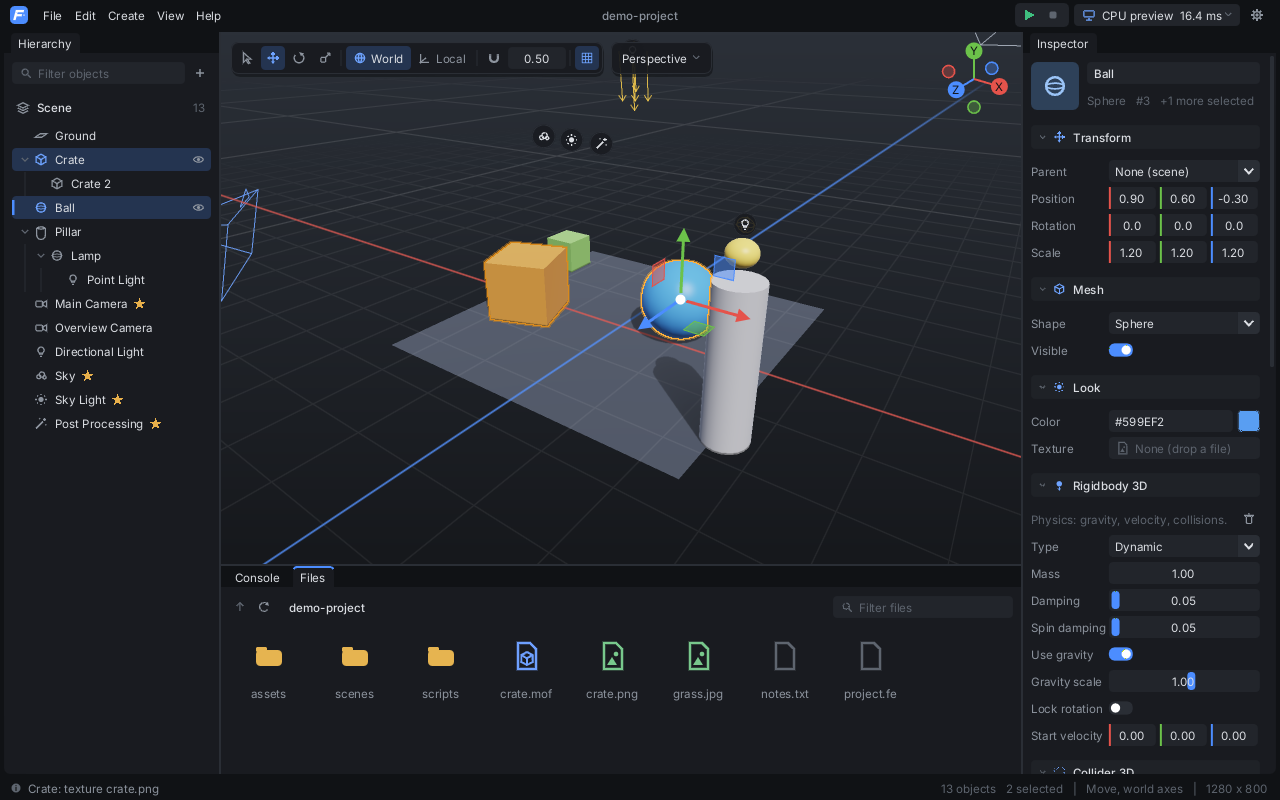
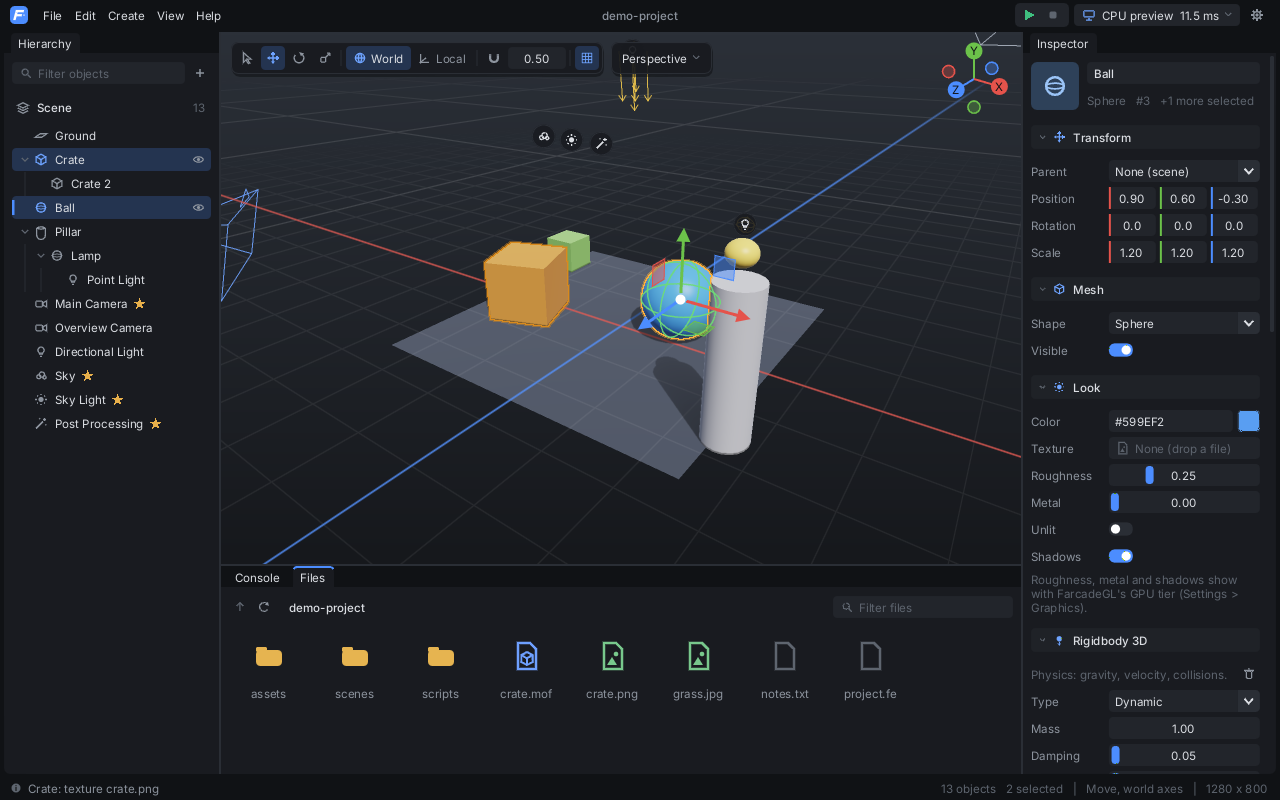
README: refresh every screenshot; the unsaved-changes prompt
All editor shots were re-rendered with fe-editor-shot, and the
Minimal-OS shot was taken in QEMU. The gfx shots rendered identical.

Claude-Session: https://claude.ai/code/session_0112xJofPtaNLntSK14Rcenm

Changed region(s): [[0.8125, 0.5938, 0.9688, 0.9688], [0.5, 0.3438, 0.5625, 0.4062], [0.9062, 0.8438, 0.9375, 0.875]]

diff --git a/README.md b/README.md
@@ -23,8 +23,8 @@ repository.
 | **FarcadeGL, base tier** (runs everywhere, also on the CPU) | **GPU tier** (Ultra): sun shadows, ambient occlusion, bloom, PBR metals, FXAA, fog. On by default only on a graphics card |
 | ![Shaping a collider](docs/screenshots/editor-collider.png) | ![GPU tier in the editor](docs/screenshots/editor-farcadegl-ultra.png) |
 | **Collider shapes**: Edit shape, then drag the dots (height, radius, box size) | The editor viewport with the GPU tier forced on (Settings > Graphics) |
-| ![Material settings in the Inspector](docs/screenshots/editor-material.png) | |
-| **Materials**: roughness, metal, unlit and shadows per object (Look); the scene saved as `scenes/main.fscene` | |
+| ![Material settings in the Inspector](docs/screenshots/editor-material.png) | ![The unsaved-changes prompt](docs/screenshots/editor-unsaved.png) |
+| **Materials**: roughness, metal, unlit and shadows per object (Look); the scene saved as `scenes/main.fscene` | **Unsaved changes**: New scene, Open and Quit ask first; Ctrl+Z / Ctrl+Y undo and redo every edit |
 
 ![The editor running on Minimal-OS in QEMU](docs/screenshots/editor-minimal-os.png)
 
@@ -61,10 +61,11 @@ make os        # Minimal-OS programs (needs x86_64-elf-gcc/g++, see the SDK)
 - **Graphics settings** (Settings > Graphics, `engine/gfx/graphics_settings.h`, `docs/graphics.md`): presets Low to Ultra. The GPU tier (shadow maps with soft PCF, SSAO, bloom, FXAA, GGX PBR) runs only when FarcadeGL is on a graphics card, unless forced with "Use on the CPU".
 - **FarcadeGL renderer** (`engine/gfx`, `fe::gfx::Renderer`): draws meshes with directional, point and spot lights (up to 8), hemisphere ambient from the Sky Light, a gradient sky with a sun, and post processing (exposure, ACES/Reinhard, contrast, saturation, tint, vignette) through the SDK's `farcadegl.h`. On Minimal-OS that runs on the kernel's FGPU; on the PC the same calls run on a copy of the FGPU CPU backend (`engine/gfx/host`, `external/fgpu`), so `gfx_tests` and `fe-gfx-shot` check it there. Shadows, AO and bloom are in the GPU tier (above).
 - **Entity system** (`engine/ecs`, `docs/ecs.md`): flecs v4 behind a small `fe::World` API. Modules are components (with flecs reflection built from the same field tables as the Inspector), the transform hierarchy is a system, and "current" is enforced there too. The editor's Play runs the scene as a world.
-- **Scripts** (`engine/script`, `docs/scripting.md`): Lua 5.4 in a sandbox, one instance per script on an object, with its editor inputs in `self`. Scripts reach other objects' scripts (`self.door:script("door"):open()`), modules (`obj.light.intensity`, `obj.camera.current = true`), events (`obj:send`, `fe.broadcast`) and physics callbacks. They run in Play.
+- **Scripts** (`engine/script`, `docs/scripting.md`): Lua 5.4 in a sandbox, one instance per script on an object, with its editor inputs in `self`. Scripts reach other objects' scripts (`self.door:script("door"):open()`), modules (`obj.light.intensity`, `obj.camera.current = true`), the look (`obj.material.metallic = 1`), events (`obj:send`, `fe.broadcast`) and physics callbacks. They run in Play.
 - **Physics** (`engine/physics`): a built-in step for Rigidbody 3D and Collider 3D (gravity, box, sphere, capsule, cylinder and convex mesh collisions, rolling and tipping, bounce, friction, triggers), a stand-in for Jolt.
 - **Modules and scene objects**: `docs/modules.md`.
-- **Scene files** (`.fscene`, `editor/src/scene_io.h`, `docs/scenes.md`): File > Save scene (Ctrl+S), Save scene as, and double-click a scene in Files to open it. Readable text; every value is stored by name, so newer fields read back as defaults from older files.
+- **Scene files** (`.fscene`, `editor/src/scene_io.h`, `docs/scenes.md`): File > Save scene (Ctrl+S), Save scene as, and double-click a scene in Files to open it. Readable text; every value is stored by name, so newer fields read back as defaults from older files. New scene, Open and Quit ask before unsaved changes are lost.
+- **Undo and redo** (Ctrl+Z, Ctrl+Y / Ctrl+Shift+Z): every edit in the editor, a drag counts as one step (`docs/scenes.md`).
 
 ```sh
 build/host/bin/fe-gfx-shot out.png            # the renderer alone, a demo scene
